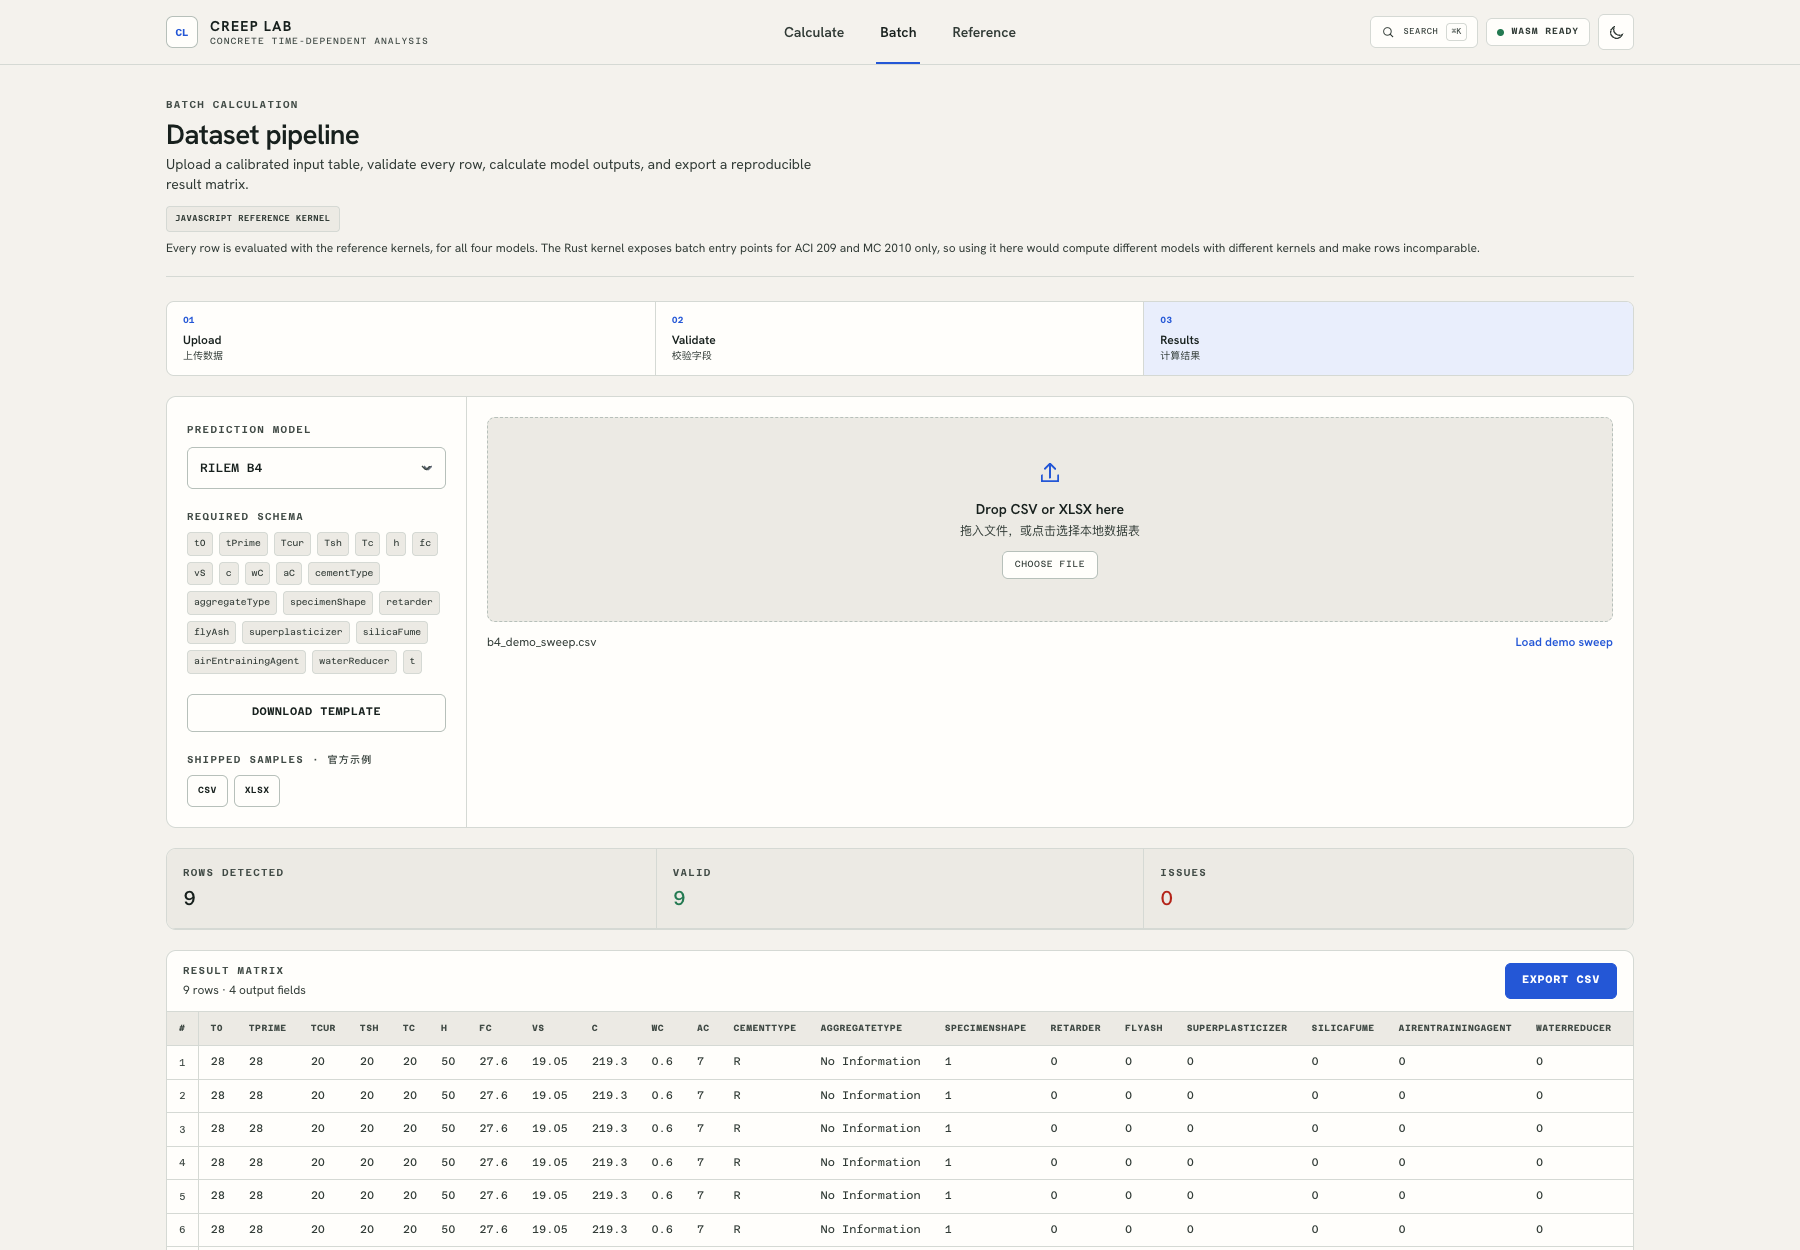
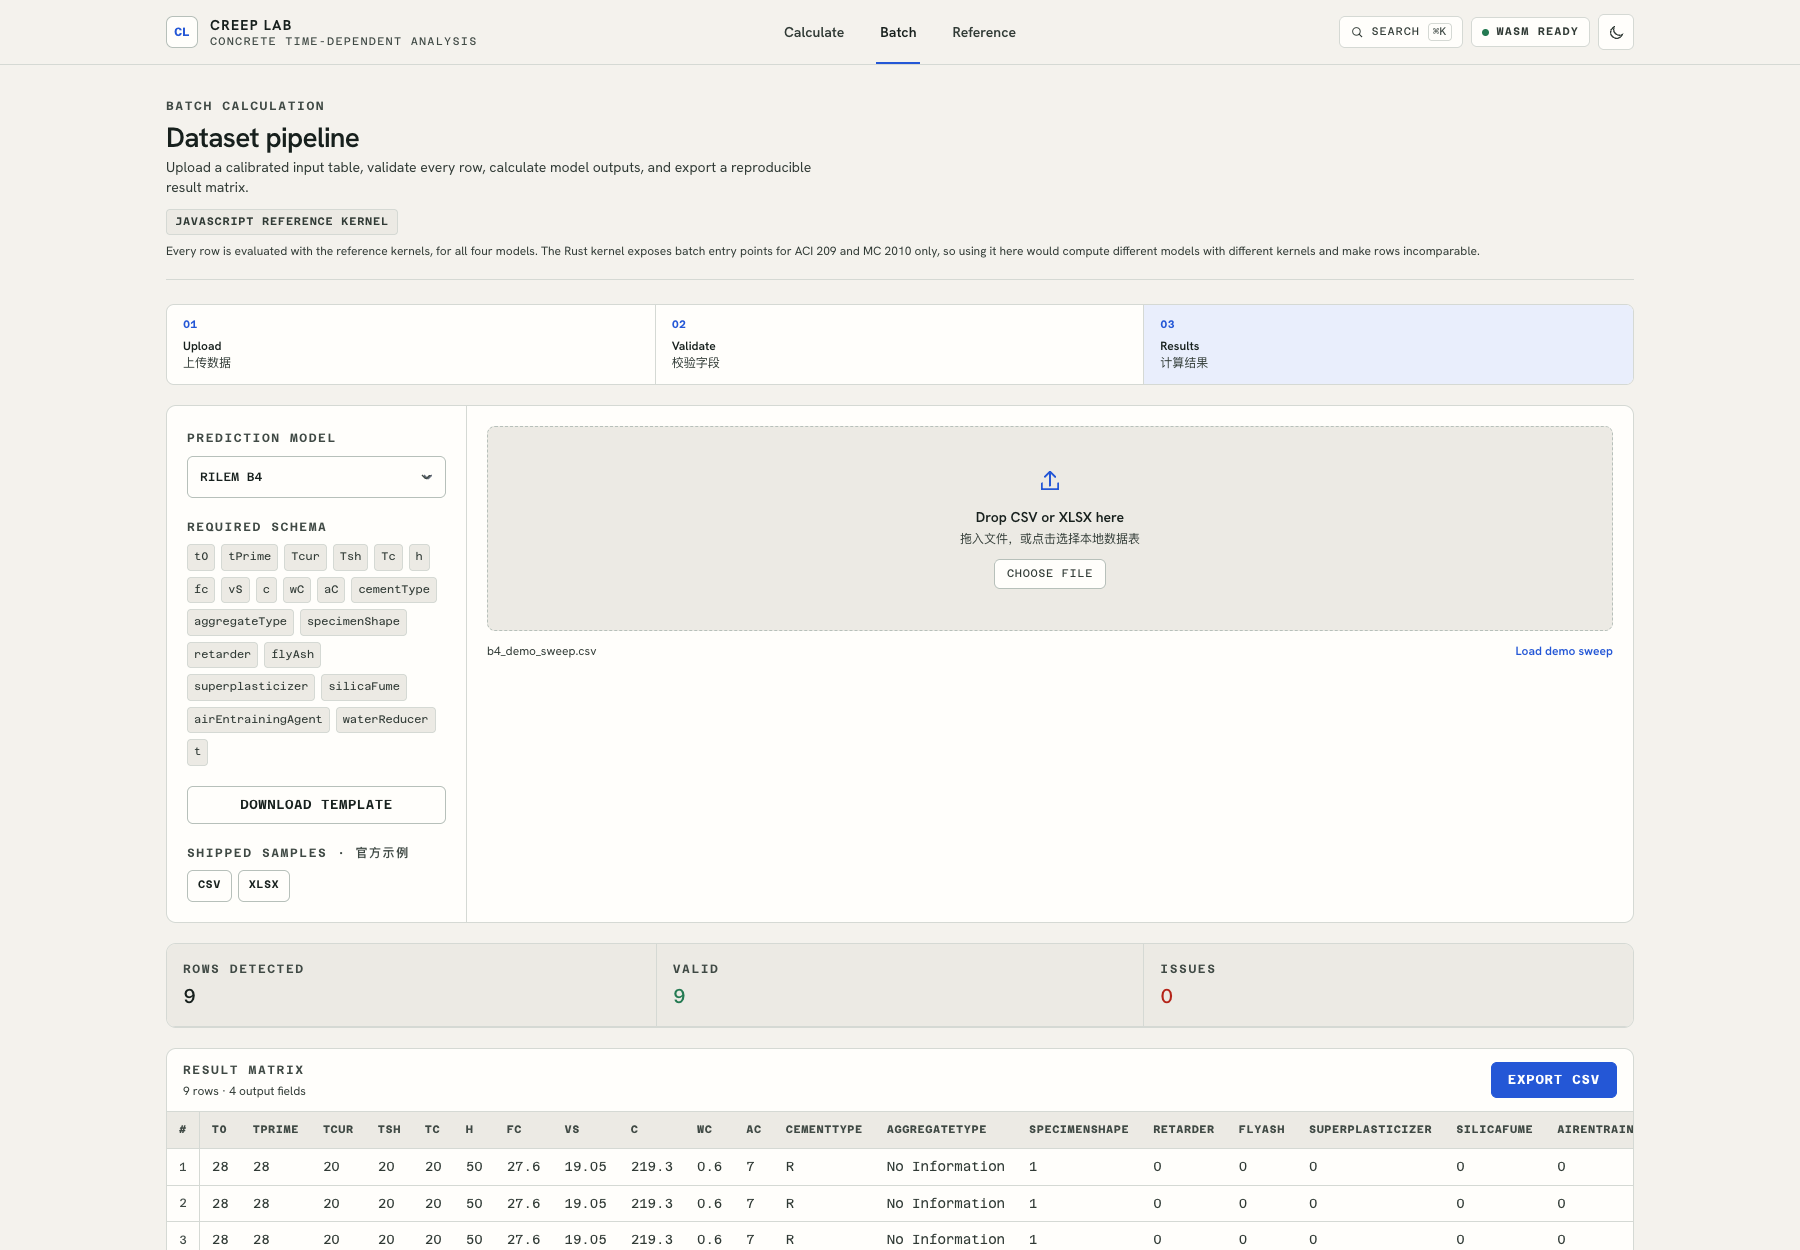
feat(type): raise the type floor from 8px to 11px (P1-2)
The audit measured ~50 nodes rendering at 8-10px: unit suffixes, chips, table
headers, equation numbers. An 8px mono label is legible only if you already know
what it says, which is the opposite of what a label is for.

The scale's roles are unchanged, so a token still means what it meant; the values
moved up. 4xs (8px) is gone — those uses join 3xs — and the steps above shifted
to keep the scale's proportions:

  3xs  9px -> 11px   floor: chips, table headers, equation numbers
  2xs 10px -> 12px   eyebrow / label
  1xs 11px -> 13px   helper text, small controls
  body-sm 13px -> 14px   dense body copy
  body 15px          unchanged

The last arbitrary sizes are tokenised too: 27/28/32px become metric-sm,
display-sm and metric, and the remaining 11/12/14px literals map onto 1xs, 2xs
and body-sm. No text-[Npx] is left in src/.

Reviewing an intentional visual change needs the changed values, not a hash, so
the snapshot tool now dumps the computed-style fingerprint next to each scene's
HTML. Diffing the two builds property by property:

- font sizes and their inherited line-heights moved exactly as intended, and
  em-based tracking followed proportionally (1.3px -> 1.56px at 0.1em)
- no padding, gap, colour, radius or border change anywhere
- element counts identical in every scene (381, 1771, 538)

Layout was checked separately, because a style fingerprint cannot see overflow:
across 390/768/1440/1800px and all three workspaces there is no page-level
[…]

diff --git a/src/components/DocsPage.jsx b/src/components/DocsPage.jsx
@@ -367,7 +367,7 @@ export default function DocsPage() {
     <div className="animate-fade-in">
       <header className="mb-6 border-b border-line pb-5">
         <div className="eyebrow">Reference library</div>
-        <h1 className="mt-1.5 text-2xl font-semibold tracking-[-0.025em] text-primary md:text-[28px]">Model standards and equations</h1>
+        <h1 className="mt-1.5 text-2xl font-semibold tracking-[-0.025em] text-primary md:text-display-sm">Model standards and equations</h1>
         <p className="mt-1 max-w-2xl text-sm text-muted">Implementation scope, calibrated ranges, formula mapping, and primary sources for every prediction model.</p>
       </header>
 
@@ -387,9 +387,9 @@ export default function DocsPage() {
                 )}
                 <div className="flex gap-2">
                   <span className="font-mono text-3xs text-faint">{String(index + 1).padStart(2, '0')}</span>
-                  <span className="text-[12px] font-semibold">{item.name}</span>
+                  <span className="text-2xs font-semibold">{item.name}</span>
                 </div>
-                <div className="mt-1 pl-5 font-mono text-4xs uppercase tracking-[.06em] text-faint">{item.category}</div>
+                <div className="mt-1 pl-5 font-mono text-3xs uppercase tracking-[.06em] text-faint">{item.category}</div>
               </button>
             ))}
           </nav>
@@ -401,12 +401,12 @@ export default function DocsPage() {
               <div>
                 <div className="eyebrow">{model.category}</div>
                 <h2 className="mt-2 text-2xl font-semibold tracking-[-0.025em] text-primary">{model.name}</h2>
-                <p className="mt-3 max-w-[75ch] text-[14px] leading-7 text-muted">{model.description}</p>
+                <p className="mt-3 max-w-[75ch] text-body-sm leading-7 text-muted">{model.description}</p>
               </div>
               <div className="flex shrink-0 flex-col items-end gap-2">
                 <div className="flex gap-1.5">
                   {model.engine.map((engine) => (
-                    <span key={engine} className="rounded border border-line bg-surface-2 px-2 py-1 font-mono text-4xs font-semibold uppercase tracking-[.07em] text-muted">{engine}</span>
+                    <span key={engine} className="rounded border border-line bg-surface-2 px-2 py-1 font-mono text-3xs font-semibold uppercase tracking-[.07em] text-muted">{engine}</span>
                   ))}
                 </div>
                 <a
@@ -558,7 +558,7 @@ export default function DocsPage() {
                   >
                     <div className="text-sm font-semibold text-primary group-hover:text-green">{source.label}</div>
                     <p className="mt-1 text-xs leading-5 text-muted">{source.note}</p>
-                    <span className="mt-3 block truncate font-mono text-4xs text-faint">{source.url}</span>
+                    <span className="mt-3 block truncate font-mono text-3xs text-faint">{source.url}</span>
                   </a>
                 ))}
               </div>

diff --git a/tailwind.config.js b/tailwind.config.js
@@ -14,26 +14,27 @@ module.exports = {
         sans: ['"Hanken Grotesk"', '"PingFang SC"', 'sans-serif'], body: ['"Hanken Grotesk"', '"PingFang SC"', 'sans-serif'],
         label: ['"Hanken Grotesk"', '"PingFang SC"', 'sans-serif'], mono: ['"Azeret Mono"', '"SFMono-Regular"', 'monospace'],
       },
-      // The dense instrument type scale. Every value here is exactly what the
-      // ad-hoc text-[8px]…text-[15px] it replaces already rendered, so the whole
-      // scale can now be moved from one place — which is what the redesign needs,
-      // and what raising the 8–9px floor currently costs 80-odd scattered edits.
+      // The dense instrument type scale. The audit's P1-2: ~50 nodes rendered at
+      // 8-10px, which is below any comfortable reading size — 8px mono labels are
+      // legible only if you already know what they say. The floor is now 11px, and
+      // the steps above it shifted up to keep the scale's proportions.
       //
-      // Deliberately plain values: a bare `fontSize` string emits only font-size,
-      // so these do not drag a line-height along the way Tailwind's own text-xs /
-      // text-sm do. text-[12px] and text-[14px] stay arbitrary for the same
-      // reason — mapping them to text-xs/text-sm would add a line-height and
-      // change the layout.
+      // Roles are unchanged, so a token still means what it meant; only the value
+      // moved. Deliberately plain values: a bare `fontSize` string emits only
+      // font-size, so these do not drag a line-height along the way Tailwind's own
+      // text-xs / text-sm do.
       //
       // Not covered yet: recharts tick/label sizes are JS numbers in SVG props,
       // so they need a chart theme rather than a class token.
       fontSize: {
-        '4xs': '8px',      // unit suffixes, engine chips, source URLs
-        '3xs': '9px',      // micro labels: table headers, EQ numbers, small controls
-        '2xs': '10px',     // eyebrow / label
-        '1xs': '11px',     // helper text, small buttons, log lines
-        'body-sm': '13px', // dense body copy
-        'body': '15px',    // default body size, matches body{} in index.css
+        '3xs': '11px',      // floor: unit suffixes, chips, table headers, equation numbers
+        '2xs': '12px',      // eyebrow / label
+        '1xs': '13px',      // helper text, small buttons, log lines
+        'body-sm': '14px',  // dense body copy
+        'body': '15px',     // default body size, matches body{} in index.css
+        'display-sm': '28px', // page headings
+        'metric-sm': '27px',  // metric value, narrow viewports
+        'metric': '32px',     // metric value
       },
       borderRadius: {
         card: '10px', 'card-lg': '10px', 'card-xl': '12px', pill: '9999px', input: '6px',

diff --git a/src/components/BatchCalculator.jsx b/src/components/BatchCalculator.jsx
@@ -229,12 +229,12 @@ export default function BatchCalculator() {
     <div className="animate-fade-in">
       <header className="mb-6 border-b border-line pb-5">
         <div className="eyebrow">Batch calculation</div>
-        <h1 className="mt-1.5 text-2xl font-semibold tracking-[-0.025em] text-primary md:text-[28px]">Dataset pipeline</h1>
+        <h1 className="mt-1.5 text-2xl font-semibold tracking-[-0.025em] text-primary md:text-display-sm">Dataset pipeline</h1>
         <p className="mt-1 max-w-2xl text-sm text-muted">Upload a calibrated input table, validate every row, calculate model outputs, and export a reproducible result matrix.</p>
         {/* The audit found the batch silently computing with a different kernel than
             the header badge implied. State it, and state why. */}
         <p className="mt-3 flex flex-wrap items-center gap-2 text-xs text-muted">
-          <span className="rounded border border-line bg-surface-2 px-2 py-1 font-mono text-4xs font-semibold uppercase tracking-[.07em] text-muted">JavaScript reference kernel</span>
+          <span className="rounded border border-line bg-surface-2 px-2 py-1 font-mono text-3xs font-semibold uppercase tracking-[.07em] text-muted">JavaScript reference kernel</span>
           <span>Every row is evaluated with the reference kernels, for all four models. The Rust kernel exposes batch entry points for ACI 209 and MC 2010 only, so using it here would compute different models with different kernels and make rows incomparable.</span>
         </p>
       </header>

diff --git a/src/components/ui/Header.jsx b/src/components/ui/Header.jsx
@@ -49,7 +49,7 @@ export default function Header({ activeMode, onModeChange, onOpenDocs, onOpenPal
               only appears once it fits too (~220px, from 900px). Previously the
               text shrank to a sliver and then to "CRE…" between those widths. */}
           <div className="hidden min-w-0 leading-none min-[600px]:block">
-            <div className="truncate text-[14px] font-bold tracking-[0.09em] text-primary">CREEP LAB</div>
+            <div className="truncate text-body-sm font-bold tracking-[0.09em] text-primary">CREEP LAB</div>
             <div className="mt-1 hidden truncate font-mono text-3xs uppercase tracking-[0.11em] text-faint min-[900px]:block">
               Concrete time-dependent analysis
             </div>
@@ -83,8 +83,8 @@ export default function Header({ activeMode, onModeChange, onOpenDocs, onOpenPal
               <circle cx="11" cy="11" r="6.5" strokeWidth="1.7" />
               <path d="m16 16 4 4" strokeWidth="1.7" strokeLinecap="round" />
             </svg>
-            <span className="font-mono text-4xs uppercase tracking-[0.08em]">Search</span>
-            <kbd className="rounded border border-line px-1 font-mono text-4xs text-faint">⌘K</kbd>
+            <span className="font-mono text-3xs uppercase tracking-[0.08em]">Search</span>
+            <kbd className="rounded border border-line px-1 font-mono text-3xs text-faint">⌘K</kbd>
           </button>
           <div
             className="hidden items-center gap-2 rounded-md border border-line bg-surface px-2.5 py-1.5 sm:flex"

diff --git a/src/components/SingleCalculationDashboard.jsx b/src/components/SingleCalculationDashboard.jsx
@@ -38,7 +38,7 @@ export default function SingleCalculationDashboard() {
       <header className="mb-6 flex flex-col gap-2 border-b border-line pb-5 md:flex-row md:items-end md:justify-between">
         <div>
           <div className="eyebrow">Calculation workspace</div>
-          <h1 className="mt-1.5 text-2xl font-semibold tracking-[-0.025em] text-primary md:text-[28px]">Time-dependent concrete analysis</h1>
+          <h1 className="mt-1.5 text-2xl font-semibold tracking-[-0.025em] text-primary md:text-display-sm">Time-dependent concrete analysis</h1>
           <p className="mt-1 max-w-2xl text-sm text-muted">Select a prediction model, define calibrated inputs, then explicitly calculate the complete 10,000-day response.</p>
         </div>
         <div className="font-mono text-3xs uppercase tracking-[0.1em] text-faint">Float64 · 0–10,000 days</div>
@@ -63,7 +63,7 @@ export default function SingleCalculationDashboard() {
                     <span className="font-mono text-3xs text-faint">{model.index}</span>
                     <span className="text-body-sm font-semibold">{model.name}</span>
                   </div>
-                  <div className="mt-1.5 pl-[22px] font-mono text-4xs uppercase tracking-[0.07em] text-faint">{model.type}</div>
+                  <div className="mt-1.5 pl-[22px] font-mono text-3xs uppercase tracking-[0.07em] text-faint">{model.type}</div>
                 </button>
               );
             })}

diff --git a/src/components/ui/CalculatorWrapper.jsx b/src/components/ui/CalculatorWrapper.jsx
@@ -49,7 +49,7 @@ function Metric({ eyebrow, value, unit, accent = false }) {
   return (
     <div className="min-w-0">
       <div className="eyebrow">{eyebrow}</div>
-      <div className={`mt-2 flex flex-wrap items-baseline gap-2 font-mono text-[27px] font-semibold tracking-[-0.04em] md:text-[32px] ${accent ? 'text-green' : 'text-primary'}`}>
+      <div className={`mt-2 flex flex-wrap items-baseline gap-2 font-mono text-metric-sm font-semibold tracking-[-0.04em] md:text-metric ${accent ? 'text-green' : 'text-primary'}`}>
         <span>{formatValue(value)}</span>
         {unit && <span className="text-1xs font-medium tracking-normal text-muted">{unit}</span>}
       </div>
@@ -74,7 +74,7 @@ function Decomposition({ items }) {
               <div key={item.label} className={`grid grid-cols-[1fr_auto] items-baseline gap-3 py-2 text-xs ${item.total ? 'font-semibold text-primary' : 'text-muted'}`}>
                 <span>{item.label}</span>
                 <span className="font-mono tabular-nums text-primary">
-                  {formatValue(item.value, 3)} <small className="text-4xs font-normal text-faint">{item.unit}</small>
+                  {formatValue(item.value, 3)} <small className="text-3xs font-normal text-faint">{item.unit}</small>
                 </span>
               </div>
             ))}

diff --git a/src/components/ui/ParameterSets.jsx b/src/components/ui/ParameterSets.jsx
@@ -40,7 +40,7 @@ export default function ParameterSets({ modelId, params }) {
       <div className="mb-2.5 flex items-center justify-between">
         <span className="eyebrow">Parameter sets</span>
         {edited && (
-          <button onClick={() => resetModelParams(modelId)} className="font-mono text-4xs uppercase tracking-[.06em] text-faint hover:text-primary">
+          <button onClick={() => resetModelParams(modelId)} className="font-mono text-3xs uppercase tracking-[.06em] text-faint hover:text-primary">
             Reset
           </button>
         )}
@@ -71,7 +71,7 @@ export default function ParameterSets({ modelId, params }) {
           </div>
         </div>
       ) : (
-        <p className="text-[11px] leading-5 text-muted">No saved sets for this model yet. Name the current parameters to keep a case.</p>
+        <p className="text-1xs leading-5 text-muted">No saved sets for this model yet. Name the current parameters to keep a case.</p>
       )}
 
       <div className="mt-2 flex gap-2">

diff --git a/src/components/ui/CustomSelect.jsx b/src/components/ui/CustomSelect.jsx
@@ -10,7 +10,7 @@ export default function CustomSelect({ name, value, onChange, options, id, ariaL
         value={value}
         onChange={onChange}
         aria-label={ariaLabel}
-        className="h-10 w-full appearance-none border-0 bg-transparent px-3 pr-9 font-mono text-[12px] font-medium text-primary outline-none focus:ring-0"
+        className="h-10 w-full appearance-none border-0 bg-transparent px-3 pr-9 font-mono text-2xs font-medium text-primary outline-none focus:ring-0"
       >
         {normalized.map((option) => <option key={option.value} value={option.value}>{option.label}</option>)}
       </select>
